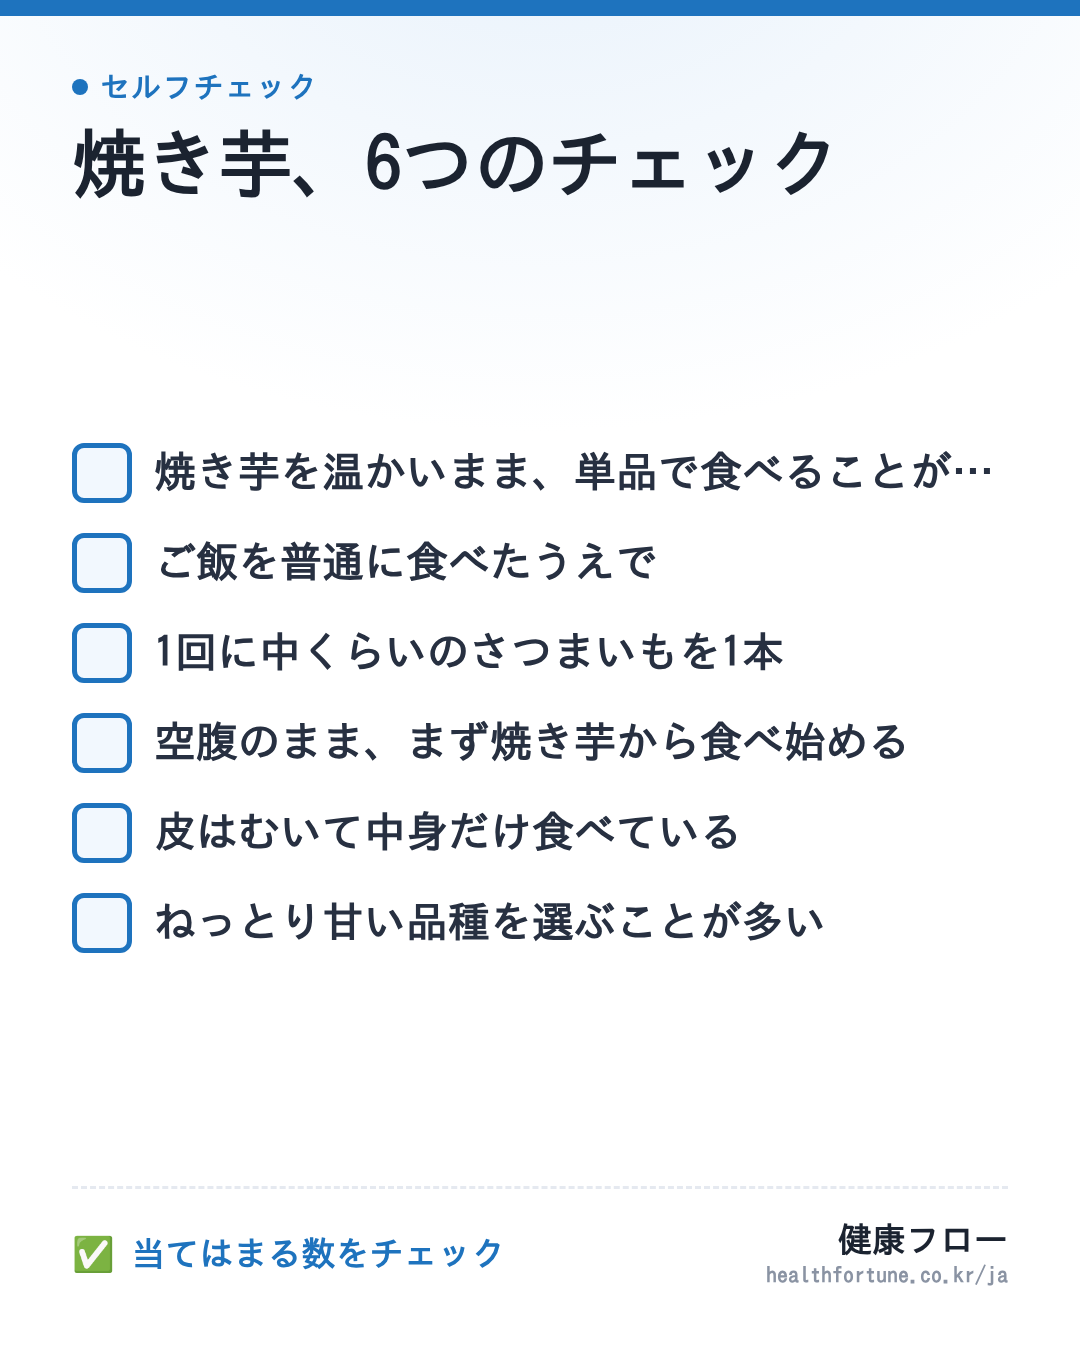
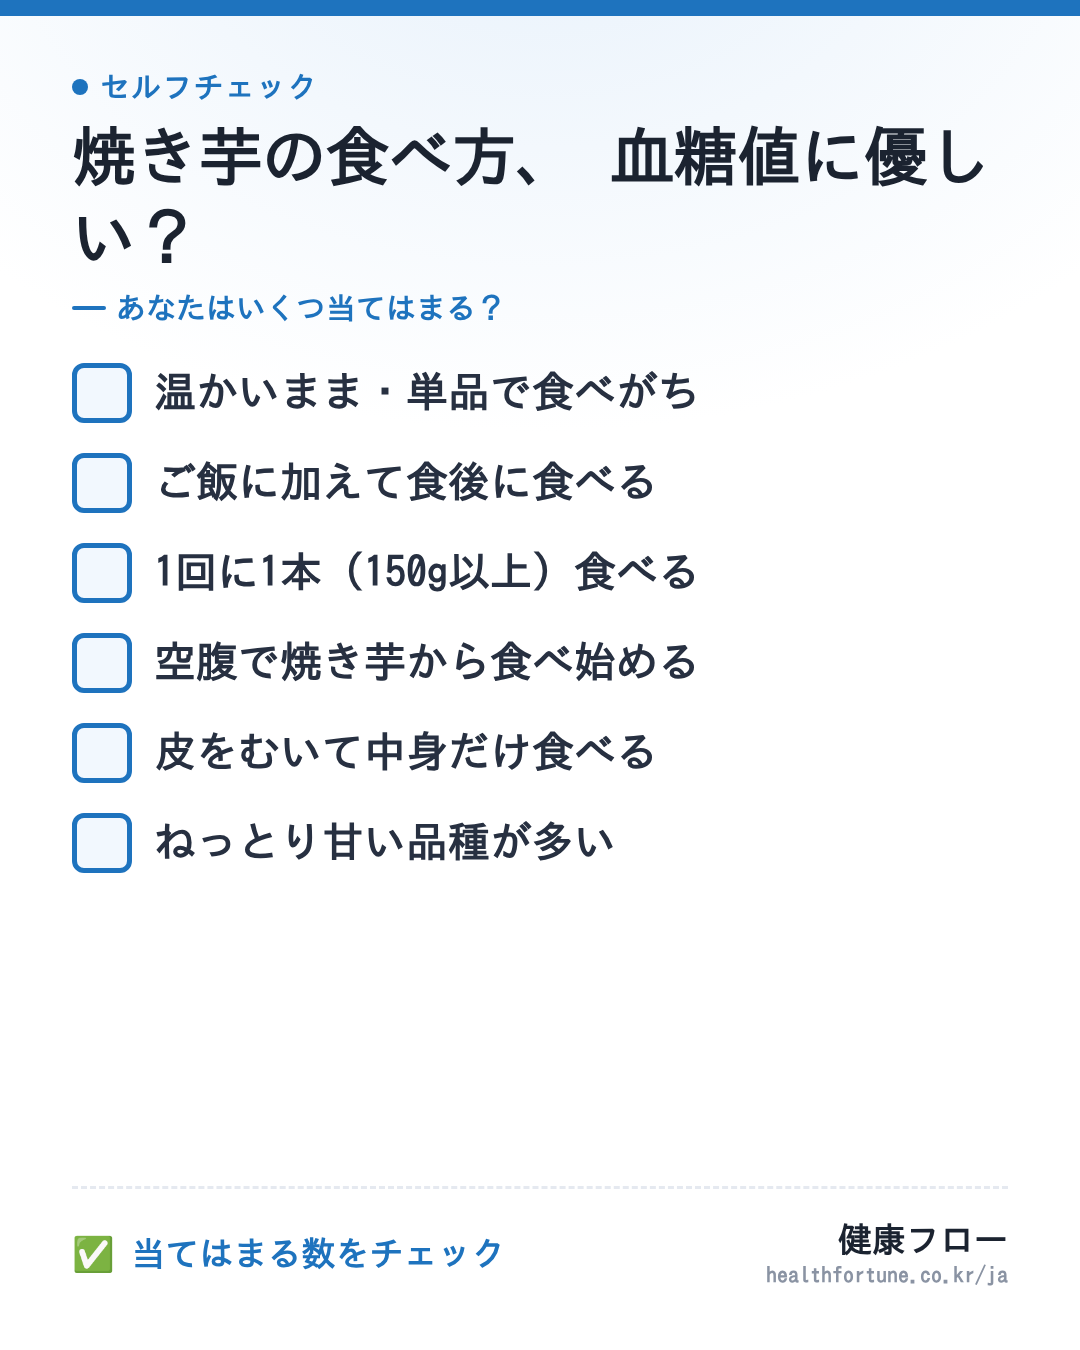
X 견본 카드 다듬기 + override 지원 + 제목 개선안(11편)
- card.html: 서브훅·레이아웃 타이트화(가운데 빈공간 제거)
- x-card-render.js: subhook 전달
- x-post-gen.js: social/x/<slug>/override.json(hook·subhook·checklist·hooks) 우선 적용
- 焼き芋 override.json로 체크문구·훅 정돈, 카드 재생성
- social/x/retitle-proposals.md: 하위 11편 손질 제안(약기법/과장 제거·질문형·키워드 전면, 28~35자·금지0). 반영은 승인후

Claude-Session: https://claude.ai/code/session_01V1VnMHNNQbib9CkvFoCeNC

diff --git a/social/x/templates/card.html b/social/x/templates/card.html
@@ -19,8 +19,10 @@
   .pad { padding:72px 72px 60px; display:flex; flex-direction:column; height:100%; }
   .kicker { font-size:30px; font-weight:700; color:var(--accent); letter-spacing:.04em; margin-bottom:14px; display:flex; align-items:center; gap:12px; }
   .kicker .dot { width:16px; height:16px; border-radius:50%; background:var(--accent); display:inline-block; }
-  .hook { font-weight:900; color:#1b2330; line-height:1.28; letter-spacing:-.01em; }
-  .checks { margin-top:auto; margin-bottom:auto; display:flex; flex-direction:column; gap:var(--gap); }
+  .hook { font-weight:900; color:#1b2330; line-height:1.26; letter-spacing:-.01em; }
+  .subhook { margin-top:16px; font-weight:800; color:var(--accent); display:inline-flex; align-items:center; gap:10px; }
+  .subhook::before { content:""; width:34px; height:4px; border-radius:3px; background:var(--accent); display:inline-block; }
+  .checks { margin-top:var(--chkTop); margin-bottom:auto; display:flex; flex-direction:column; gap:var(--gap); }
   .chk { display:flex; align-items:flex-start; gap:22px; }
   .chk .box {
     flex:0 0 auto; width:var(--box); height:var(--box); border-radius:12px;
@@ -63,13 +65,16 @@
     var gap = vertical ? 30 : 16;
     card.style.setProperty("--box", box + "px");
     card.style.setProperty("--gap", gap + "px");
+    card.style.setProperty("--chkTop", (vertical ? 40 : 22) + "px");
     var items = list.map(function(t){
       return '<div class="chk"><span class="box"></span><span class="txt" style="font-size:'+txtSize+'px">'+esc(t)+'</span></div>';
     }).join("");
+    var sub = DATA.subhook || "あなたはいくつ当てはまる？";
     card.innerHTML =
       '<div class="pad">' +
         '<div class="kicker"><span class="dot"></span>セルフチェック</div>' +
         '<div class="hook" style="font-size:'+hookSize+'px">'+esc(DATA.hook || "")+'</div>' +
+        '<div class="subhook" style="font-size:'+(vertical?30:24)+'px">'+esc(sub)+'</div>' +
         '<div class="checks">'+items+'</div>' +
         '<div class="foot"><div class="cta" style="font-size:'+(vertical?34:28)+'px">✅ '+esc(DATA.cta||"")+'</div>' +
           '<div class="brand"><div class="bn" style="font-size:'+(vertical?34:28)+'px">'+esc(DATA.brand||"健康フロー")+'</div>' +

diff --git a/scripts/x-post-gen.js b/scripts/x-post-gen.js
@@ -120,23 +120,30 @@ async function gen(slug, opts) {
   const ex = extract(slug);
   const series = meta.category;
   const tags = (HASHTAGS[series] || HASHTAGS.default).slice(0, 2);
-  const items = checklistItems(ex);
-  const hooks = pickHooks(meta, ex, items.length);
-  const points3 = (ex.points.length ? ex.points : ex.checks).slice(0, 3);
-
-  const postA = buildPost(hooks[0], points3, slug, "a", tags);
-  const postB = buildPost(hooks[1], points3, slug, "b", tags);
-
   const outDir = path.join(SOCIAL, slug);
+  // 사람이 다듬은 override.json (hook·subhook·checklist·hooks·hashtags) 가 있으면 우선 적용
+  let ov = {};
+  try { const f = path.join(outDir, "override.json"); if (fs.existsSync(f)) ov = JSON.parse(fs.readFileSync(f, "utf8")); } catch (e) {}
+
+  const items = (ov.checklist && ov.checklist.length) ? ov.checklist.slice(0, 6) : checklistItems(ex);
+  const hooks = (ov.hooks && ov.hooks.length >= 2) ? ov.hooks.slice(0, 2) : pickHooks(meta, ex, items.length);
+  const tagsFinal = (ov.hashtags && ov.hashtags.length) ? ov.hashtags.slice(0, 2) : tags;
+  const points3 = (ov.points && ov.points.length) ? ov.points.slice(0, 3) : (ex.points.length ? ex.points : ex.checks).slice(0, 3);
+  const cardHook = ov.cardHook || clip(hooks[0], 16);
+  const subhook = ov.subhook || "あなたはいくつ当てはまる？";
+
+  const postA = buildPost(hooks[0], points3, slug, "a", tagsFinal);
+  const postB = buildPost(hooks[1], points3, slug, "b", tagsFinal);
+
   let cards = [];
   if (!opts.noX) {
-    cards = await renderCards({ slug, series, hook: clip(hooks[0], 16), items, outDir });
+    cards = await renderCards({ slug, series, hook: cardHook, subhook, items, outDir });
   }
   const altText = "セルフチェック：" + items.join("、") + "。当てはまる数を確認。健康フロー。";
   const post = {
     slug, series, title: meta.title, url: meta.url,
     keyword: ex.keyword,
-    hooks, hashtags: tags,
+    hooks, hashtags: tagsFinal,
     posts: {
       a: { text: postA.text, link: postA.link, weighted: postA.weighted, ok: postA.ok },
       b: { text: postB.text, link: postB.link, weighted: postB.weighted, ok: postB.ok },

diff --git a/scripts/x-card-render.js b/scripts/x-card-render.js
@@ -51,6 +51,7 @@ async function renderCards(opts) {
   const col = colorFor(series);
   const base = {
     hook: hook || "",
+    subhook: opts.subhook || "あなたはいくつ当てはまる？",
     items: (items || []).slice(0, 6),
     cta: opts.cta || "当てはまる数をチェック",
     brand: "健康フロー",

diff --git a/social/x/retitle-proposals.md b/social/x/retitle-proposals.md
@@ -1,0 +1,77 @@
+# 일본어 제목 개선안 (A-7, 반영은 승인 후)
+
+- 대상: 재채점 하위(3~4점 중심) 11편. 손으로 다듬은 제안입니다.
+- 우선 목적: ① 약기법·과장 표현 제거 ② 질문형 훅 추가 ③ 키워드 앞배치. (URL·slug 불변)
+- 참고: 채점표는 숫자+대상 리스티클을 선호해 정보성 제목은 5~6점이 상한이라, 억지 7점보다 자연스러움·컴플라이언스를 우선했습니다.
+
+| # | slug | 현재(점/자) | → 제안(점/자) | 메모 |
+|---|---|---|---|---|
+| 1 | hyeolgwan-cleansing-3foods | 5점/23자 | **5점/28자** | 하이프 奇跡 제거·키워드 전면 |
+| 2 | gyeran-good-pairings-3foods | 5점/22자 | **6점/28자** | 약기법 우려 薬になる 제거·질문형 |
+| 3 | jeonripseon-good-5foods | 5점/14자 | **5점/29자** | 대상 지정·분량 확대 |
+| 4 | ipdeot-timing-symptoms | 4점/28자 | **5점/28자** | 질문형 훅·행동 제시 |
+| 5 | biripjong-eye-causes-removal | 4점/41자 | **5점/28자** | 과장황 괄호 축약·질문형 |
+| 6 | jwijeot-causes-removal | 4점/33자 | **5점/29자** | 질문형·간결화 |
+| 7 | sontop-hangnail-care | 4점/20자 | **5점/28자** | 질문형+손실회피 |
+| 8 | sonjeorim-numbness-causes | 4점/32자 | **5점/29자** | 질문형·受診目安 |
+| 9 | pasangpung-symptoms-vaccine | 4점/19자 | **6점/29자** | 질문형·분량 확대 |
+| 10 | gohyeolap-causes-symptoms-lowering | 4점/18자 | **5점/29자** | 질문형·구체화 |
+| 11 | abocado-ripening-benefits | 4점/21자 | **4점/29자** | 키워드 전면·분량 확대 |
+
+## 제안 상세
+
+### 1. hyeolgwan-cleansing-3foods
+- 현재: 血管の脂汚れをすっきり洗い流す奇跡の食べ物3つ
+- **제안: 血管の脂・コレステロールが気になる人の食べ物3つと食習慣**  (28자, 금지 0)
+- 이유: 하이프 奇跡 제거·키워드 전면
+
+### 2. gyeran-good-pairings-3foods
+- 현재: 卵と一緒に食べると体の「薬」になる食べ物3つ
+- **제안: 卵は何と食べる？相性のいい食べ合わせ3つと栄養のポイント**  (28자, 금지 0)
+- 이유: 약기법 우려 薬になる 제거·질문형
+
+### 3. jeonripseon-good-5foods
+- 현재: 前立腺の健康によい食べ物5つ
+- **제안: 前立腺の健康が気になる人へ｜意識したい食べ物5つと生活習慣**  (29자, 금지 0)
+- 이유: 대상 지정·분량 확대
+
+### 4. ipdeot-timing-symptoms
+- 현재: つわりが始まる時期と終わる時期（妊娠初期のつわりの症状）
+- **제안: つわりはいつからいつまで？時期の目安と症状・和らげる工夫**  (28자, 금지 0)
+- 이유: 질문형 훅·행동 제시
+
+### 5. biripjong-eye-causes-removal
+- 현재: 目の稗粒腫（はいりゅうしゅ）の原因と除去・予防の生活習慣（まぶた・目の下の稗粒腫）
+- **제안: 目の周りの稗粒腫はなぜできる？原因と受診の目安・予防ケア**  (28자, 금지 0)
+- 이유: 과장황 괄호 축약·질문형
+
+### 6. jwijeot-causes-removal
+- 현재: 首いぼ（アクロコルドン）ができる原因と首・そけい部の除去・予防ケア
+- **제안: 首いぼ（アクロコルドン）はなぜできる？原因と除去・予防ケア**  (29자, 금지 0)
+- 이유: 질문형·간결화
+
+### 7. sontop-hangnail-care
+- 현재: 爪のささくれができる原因と予防・ケア方法
+- **제안: 爪のささくれはなぜできる？原因とやりがちなNG・予防ケア**  (28자, 금지 0)
+- 이유: 질문형+손실회피
+
+### 8. sonjeorim-numbness-causes
+- 현재: 手のしびれ・手足のしびれの原因と管理(腕・指・手のひらのしびれ)
+- **제안: 手のしびれは放っていい？原因と受診の目安・セルフケアまとめ**  (29자, 금지 0)
+- 이유: 질문형·受診目安
+
+### 9. pasangpung-symptoms-vaccine
+- 현재: 破傷風の症状と初期症状、予防接種・注射
+- **제안: 破傷風はどんな症状？初期サインと予防接種・受診の目安まとめ**  (29자, 금지 0)
+- 이유: 질문형·분량 확대
+
+### 10. gohyeolap-causes-symptoms-lowering
+- 현재: 高血圧の原因と症状、血圧を下げる方法
+- **제안: 高血圧はなぜ起こる？原因・症状と血圧を下げる生活習慣のコツ**  (29자, 금지 0)
+- 이유: 질문형·구체화
+
+### 11. abocado-ripening-benefits
+- 현재: アボカドの追熟方法と効能・カロリー・食べ方
+- **제안: アボカドの追熟のコツと食べ方｜栄養・カロリー・選び方の目安**  (29자, 금지 0)
+- 이유: 키워드 전면·분량 확대
+
